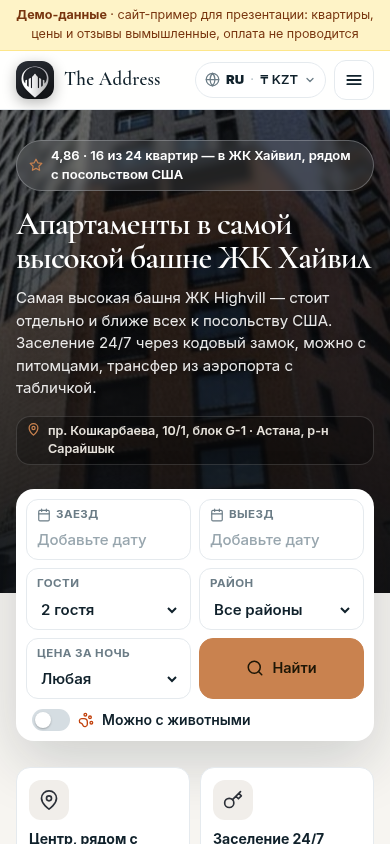
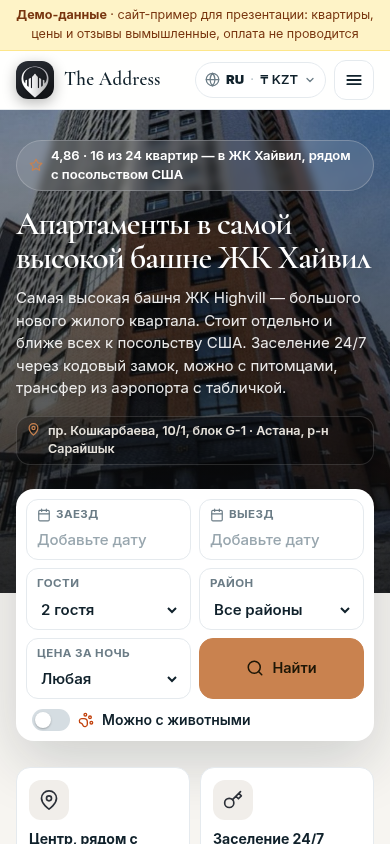
Сайт: текст про самую высокую башню ЖК Highvill у посольства США, флаг API_BASE_URL на будущее

diff --git a/index.html b/index.html
@@ -31,7 +31,7 @@
   <div class="wrap hero-in">
     <span class="kicker" id="kicker"></span>
     <h1>Апартаменты в&nbsp;самой высокой башне ЖК&nbsp;Хайвил</h1>
-    <p>Самая высокая башня ЖК Highvill — стоит отдельно и ближе всех к посольству США. Заселение 24/7 через кодовый замок, можно с питомцами, трансфер из аэропорта с табличкой.</p>
+    <p>Самая высокая башня ЖК Highvill — большого нового жилого квартала. Стоит отдельно и ближе всех к посольству США. Заселение 24/7 через кодовый замок, можно с питомцами, трансфер из аэропорта с табличкой.</p>
     <div class="hero-loc"><svg class="ic" width="15" height="15" viewBox="0 0 24 24" fill="none" stroke="currentColor" stroke-width="2" stroke-linecap="round" stroke-linejoin="round" aria-hidden="true"><path d="M12 21s-7-6.2-7-11.5A7 7 0 0 1 19 9.5C19 14.8 12 21 12 21z"/><circle cx="12" cy="9.5" r="2.5"/></svg><span data-brand="address">пр. Кошкарбаева, 10/1, блок G-1 · Астана, р-н Сарайшык</span></div>
   </div>
 </section>
@@ -85,7 +85,7 @@
 <footer class="site" id="contacts">
   <div class="wrap">
     <div class="fgrid">
-      <div><div class="f-lockup" data-brand="lockup"></div><span class="f-about">Апартаменты посуточно в Астане. Работаем 24/7.</span><div class="f-addr"><b>Адрес</b><br><span data-brand="address">пр. Кошкарбаева, 10/1, блок G-1 · Астана, р-н Сарайшык</span><br><span class="f-note">ЖК Хайвил · до посольства США — пешком</span></div></div>
+      <div><div class="f-lockup" data-brand="lockup"></div><span class="f-about">Самая высокая башня ЖК Хайвил — ближайшая к посольству США. Работаем 24/7.</span><div class="f-addr"><b>Адрес</b><br><span data-brand="address">пр. Кошкарбаева, 10/1, блок G-1 · Астана, р-н Сарайшык</span><br><span class="f-note">ЖК Хайвил · до посольства США — пешком</span></div></div>
       <div><b>Контакты (демо)</b><br><span data-brand="phone">+7 700 000 00 00</span><br>Telegram: <span data-brand="telegram">@theaddress_demo</span><br><span data-brand="email">hello@theaddress.example</span></div>
       <div><b>Гостям</b><br><a href="#catalog">Квартиры посуточно</a><br><a href="#transfer">Трансфер из аэропорта</a><br><a href="#how">Как забронировать</a></div>
     </div>
@@ -108,6 +108,7 @@
   <div class="dp-f"><div class="dp-sum" id="dpSum"></div><div class="dp-btns"><button type="button" class="btn" data-dpreset>Сбросить</button><button type="button" class="btn brand" id="dpDone">Готово</button></div></div>
 </div></div>
 
+<script src="assets/config.js"></script>
 <script src="assets/i18n.js"></script>
 <script src="assets/i18n-en.js"></script>
 <script src="assets/brand.js"></script>

diff --git a/assets/i18n-en.js b/assets/i18n-en.js
@@ -512,9 +512,9 @@ window.I18N && (I18N.en = {
 "Башня ЖК Хайвил, блок G-1 — дом The Address": "Highvill tower, block G-1 — home of The Address",
 "Апартаменты в самой высокой башне ЖК Хайвил": "Apartments in the tallest tower of Highvill",
 "Апартаменты в самой высокой башне ЖК Хайвил": "Apartments in the tallest tower of Highvill",
-"Самая высокая башня ЖК Highvill — стоит отдельно и ближе всех к посольству США. Заселение 24/7 через кодовый замок, можно с питомцами, трансфер из аэропорта с табличкой.": "The tallest tower of the Highvill complex — it stands on its own and is the closest to the US Embassy. 24/7 self check-in with a door code, pets welcome, airport pickup with a name sign.",
+"Самая высокая башня ЖК Highvill — большого нового жилого квартала. Стоит отдельно и ближе всех к посольству США. Заселение 24/7 через кодовый замок, можно с питомцами, трансфер из аэропорта с табличкой.": "The tallest tower of Highvill, a large new-build neighbourhood. It stands on its own and is the closest to the US Embassy. 24/7 self check-in with a door code, pets welcome, airport pickup with a name sign.",
 "пр. Кошкарбаева, 10/1, блок G-1 · Астана, р-н Сарайшык": "10/1 Rakhymzhan Koshkarbayev Ave, block G-1 · Astana",
-"Апартаменты посуточно в Астане. Работаем 24/7.": "Serviced apartments in Astana. Open 24/7.",
+"Самая высокая башня ЖК Хайвил — ближайшая к посольству США. Работаем 24/7.": "The tallest tower of Highvill — the closest to the US Embassy. Open 24/7.",
 "Адрес": "Address",
 "ЖК Хайвил · до посольства США — пешком": "Highvill · walking distance to the US Embassy",
 "Демо-данные: квартиры, цены, отзывы и контакты — примеры для презентации; телефон и мессенджеры — заглушки.": "Demo data: apartments, prices, reviews and contacts are examples for the presentation; phone and messengers are placeholders.",

diff --git a/assets/config.js b/assets/config.js
@@ -1,0 +1,9 @@
+// Настройки подключения сайта к серверу (папка server/).
+// Пока API_BASE_URL пустой, сайт работает как демо: данные генерируются в браузере и хранятся в localStorage.
+// Когда сервер будет развернут, сюда впишут его адрес, например 'https://api.theaddress.kz',
+// а ACCOUNT_SLUG укажет, чей аккаунт показывать (slug из таблицы Account).
+// Сейчас скрипты сайта этот флаг ещё не читают — переключение на API будет отдельным шагом.
+window.APP_CONFIG = Object.assign({
+  API_BASE_URL: '',
+  ACCOUNT_SLUG: 'astana-stay',
+}, window.APP_CONFIG || {});

diff --git a/README.md b/README.md
@@ -100,6 +100,13 @@
 
 Название продукта для команды «Сутки·Pro» — в `team.html`, `login.html`, `app.html`, `cleaning.html`, `task.html`, `manifest.webmanifest`. Иконки приложения — в `icons/`.
 
+## Сервер (backend)
+
+В папке [`server/`](server/) — основа настоящего сервера: база данных (Prisma), вход по ролям, админка
+для квартир и фото, тексты сайта, бренд и логотип, уведомления в Telegram (бот выключен без токена),
+заготовка оплаты CloudPayments / PayLink. Запуск и настройка — [server/README_SERVER.md](server/README_SERVER.md).
+Демо-сайт на Pages к серверу пока не подключён (флаг `API_BASE_URL` в `assets/config.js`).
+
 ## Файлы
 
 - `index.html` + `assets/guest.js`, `assets/guest.css` — сайт для гостей.
